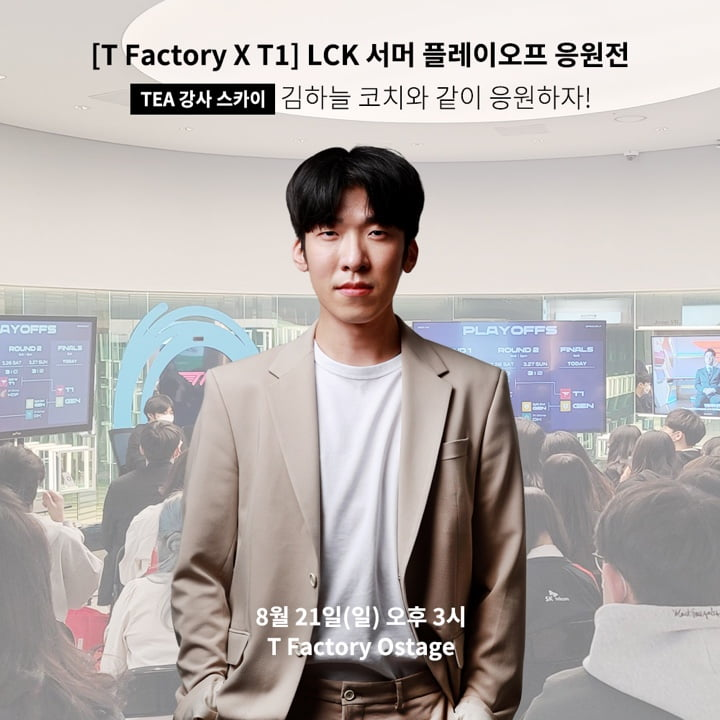
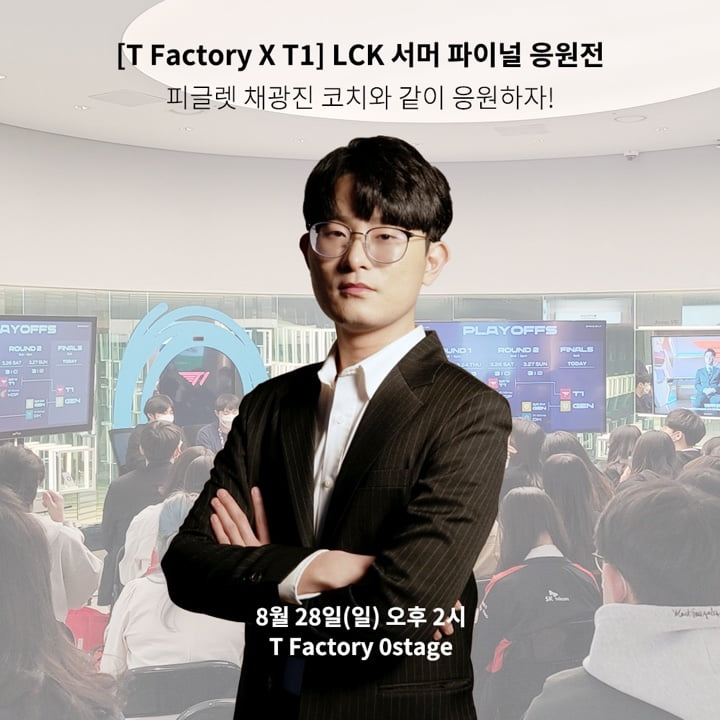
221 이미지 및 텍스트 변경

Changed region(s): [[0.2139, 0.1833, 0.7333, 1.0], [0.1222, 0.0611, 0.8861, 0.1833]]

diff --git a/src/components/product/program/Program221.vue b/src/components/product/program/Program221.vue
@@ -13,19 +13,16 @@
 					description="LCK 서머 플레이오프 응원전"
 				></kakao-share>
 				<em class="main-subtitle">T Factory X T1</em>
-				<h2 class="main-title" style="margin-top: 4px;">LCK 서머 <br>플레이오프 응원전</h2>
-				<p class="desc2" style="margin-top: 16px;; line-height: 20px;">TEA 강사 스카이 김하늘 코치와 함께하는 LCK 스프링 플레이오프 응원전 EVENT가 진행됩니다. </p>
+				<h2 class="main-title" style="margin-top: 4px;">LCK 서머 <br>파이널 응원전</h2>
+				<p class="desc2" style="margin-top: 16px;; line-height: 20px;">TEA 강사 피글렛 채광진 코치와 함께하는 LCK 서머 파이널 응원전 EVENT가 진행됩니다. </p>
 			</div>
 			<div class="details-inner">
-				<h2 class="main-title">TEA 김하늘 코치 소개</h2>
+				<h2 class="main-title">TEA 채광진 코치 소개</h2>
 				<ul>
-					<li>- CJ Entus (2015.12 ~ 2016.11)</li>
-					<li>- SK telecom T1 (2016.12 ~ 2017.11)</li>
-					<li>- RED Canids (2017.12 ~2018.10)</li>
-					<li>- XTEN Esports (2019.05 ~ 2019.11)</li>
-					<li>- RED Canids (2019.12 ~ 2020.04)</li>
-					<li>- XTEN Esports (2020.07 ~ 2021.01)</li>
-					<li>- T1 Esports Academy 코치 (2021.08 ~ 현재)</li>
+					<li>- SK Telecom T1 K (2013.02 ~ 2014.09) </li>
+					<li>- Team Liquid (2014.10 ~ 2017.11) </li>
+					<li>- Clutch Gaming (2018.01 ~ 2019.06) </li>
+					<li>- T1 Esports Academy Coach (2021.12 ~ 현재) </li>
 				</ul>
 			</div>
 			<div class="details-inner">
@@ -34,16 +31,16 @@
 					<dd>
 						<span class="sub_title" style="width: 100px;">웅원일정 및 장소</span>
 						<span class="desc">
-							8월 21일 (일) 오후 3시 ,<br>T Factory 0 stage
+							8월 28일 (일) 오후 2시 ,<br>T Factory 0 stage
 						</span>
 					</dd>
 					<dd>
 						<span class="sub_title" style="width: 100px;">응모기간</span>
-						<span class="desc">8월 18일 (목) ~ 8월 19일 (금)</span>
+						<span class="desc">8월 24일 (수) ~ 8월 25일 (금)</span>
 					</dd>
 					<dd>
 						<span class="sub_title" style="width: 100px;">당첨자발표</span>
-						<span class="desc">8월 20일 (토) 오후 3시 </span>
+						<span class="desc">8월 26일 (금) 오후 3시 </span>
 					</dd>
 				</dl>
 			</div>
